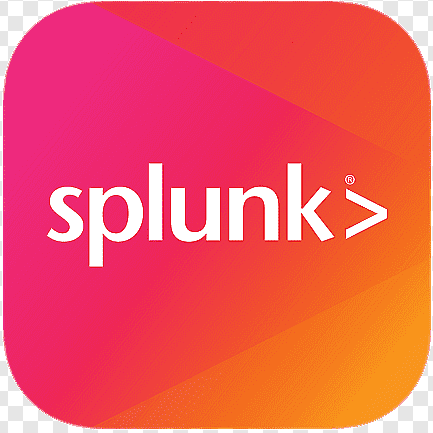
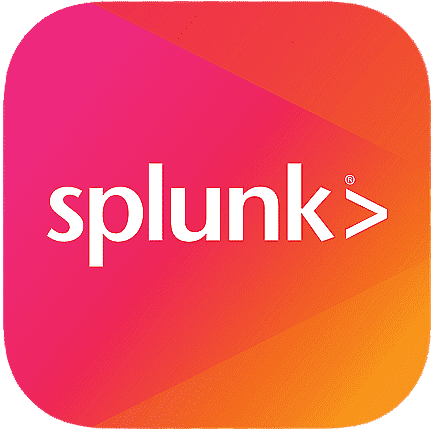
change counter section

diff --git a/index.html b/index.html
@@ -210,9 +210,25 @@
           <div class="col-sm-3 col-lg-4">
             <div class="counter-box pt-4 pt-md-0">
               <div class="counter-ico">
-                <span class="ico-circle"><img src="assets/img/splunk.png" class="img-fluid" alt=""></span>
+                <img src="assets/img/splunk.png" class="img-fluid" alt="">
               </div>
               <span class="counter-text">Splunk</span>
+            </div>
+          </div>
+          <div class="col-sm-3 col-lg-4">
+            <div class="counter-box pt-4 pt-md-0">
+              <div class="counter-ico">
+                <img src="assets/img/snow.png" class="img-fluid" alt="">
+              </div>
+              <span class="counter-text">ServiceNow</span>
+            </div>
+          </div>
+          <div class="col-sm-3 col-lg-4">
+            <div class="counter-box pt-4 pt-md-0">
+              <div class="counter-ico">
+                <img src="assets/img/newtest.jpg" class="img-fluid" alt="">
+              </div>
+              <span class="counter-text">Newtest</span>
             </div>
           </div>
           <div class="col-sm-3 col-lg-4">
